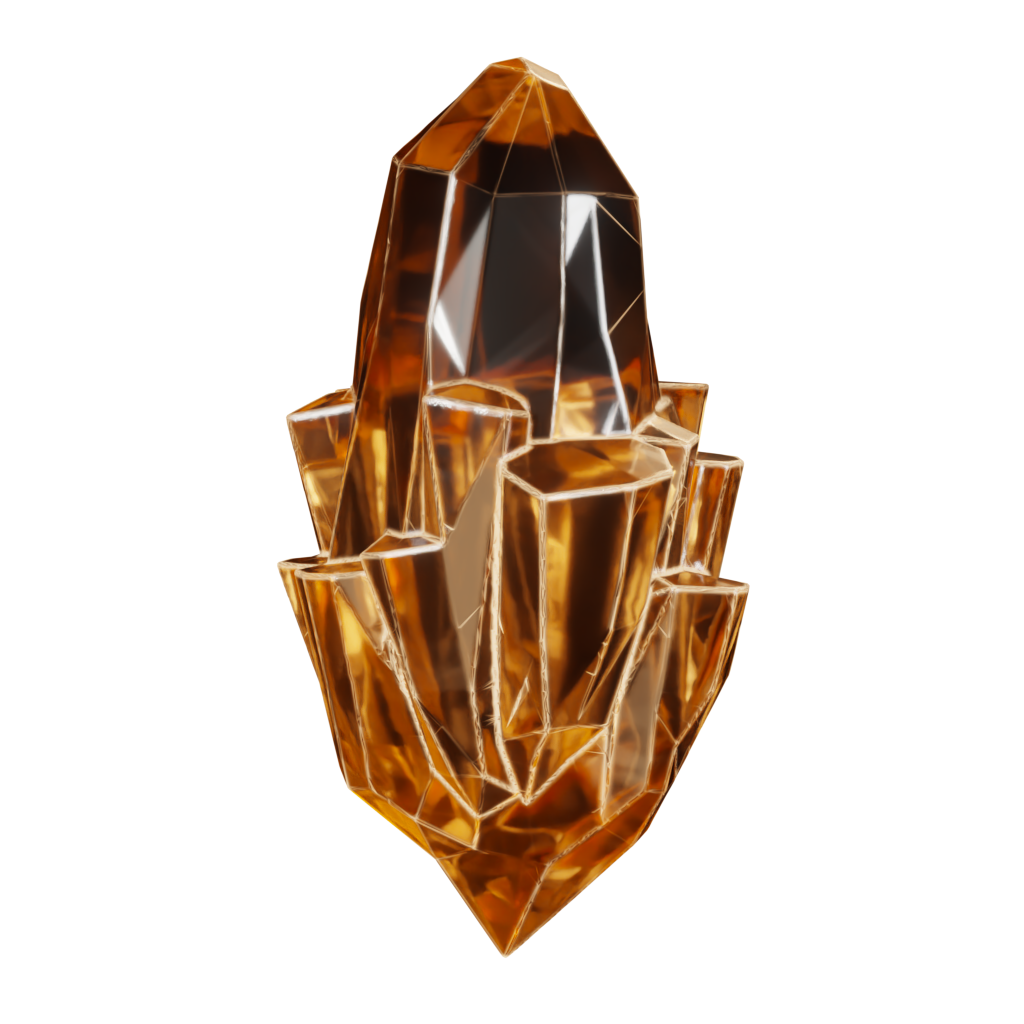
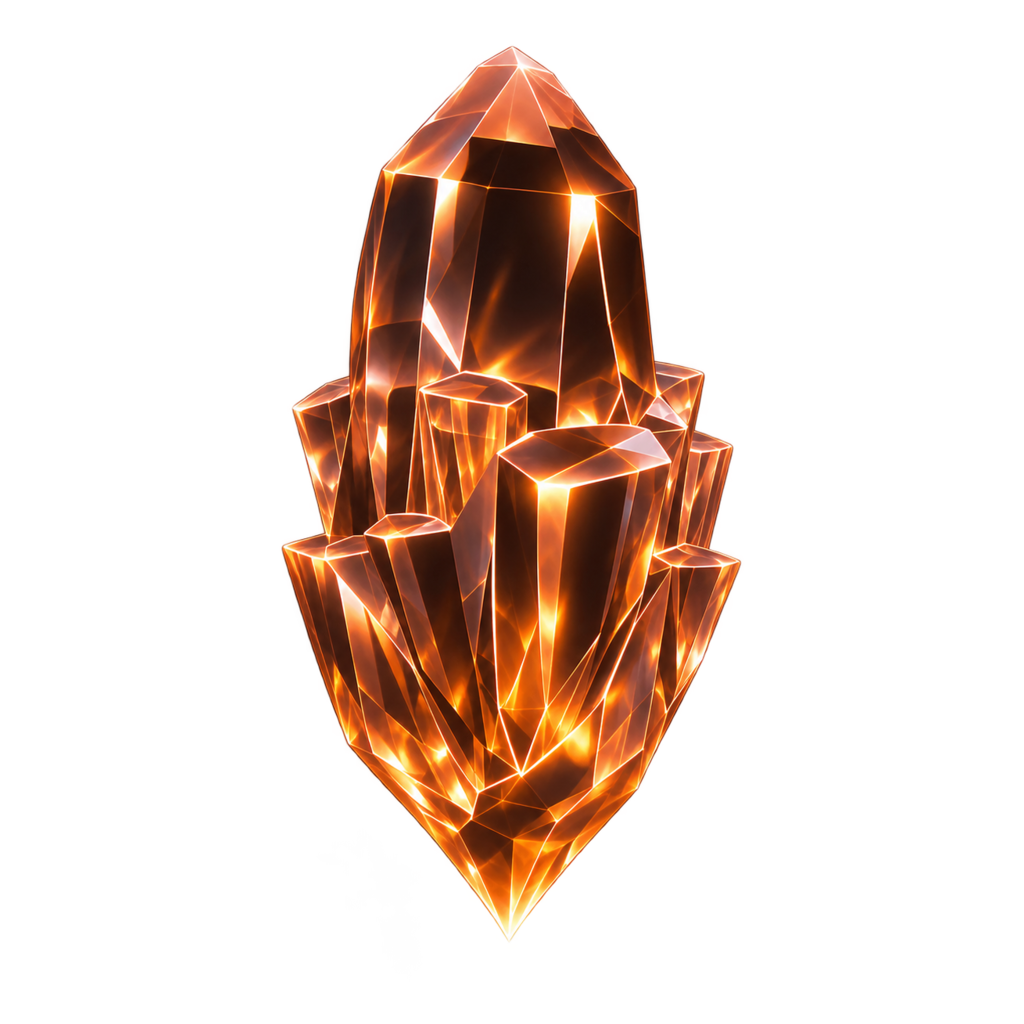
feat: tier crystals from the maintainer's own art
Four crystals the maintainer generated and cut out, cleaned of stray
specks and framed the same way (940 px tall on a 1024 px square). They
replace the Blender renders.

Changed region(s): [[0.25, 0.0312, 0.75, 0.9375]]

diff --git a/Sources/NXLibraryCore/Models/AchievementTier.swift b/Sources/NXLibraryCore/Models/AchievementTier.swift
@@ -21,7 +21,7 @@ public enum AchievementTier: CaseIterable, Sendable {
         return .bronze
     }
 
-    /// The tier's crystal: a prerendered 1024 px PNG (`.superpowers/arcane/v18`), large enough
+    /// The tier's crystal: a 1024 px PNG (`.superpowers/arcane/gpt-2026-11-16`), large enough
     /// for the achievement detail, in Core's resources; found as the translations are (the installed app's bundle
     /// first); nil only if it is missing.
     public var imageURL: URL? {
